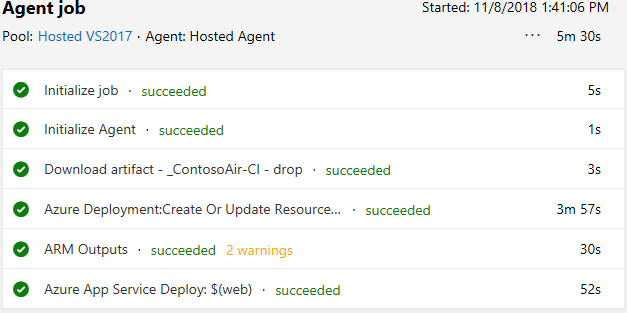
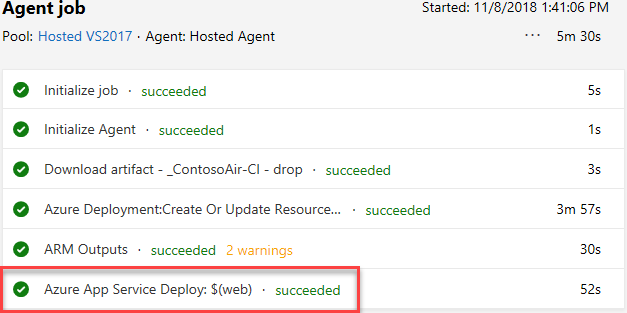
Completing release steps

Changed region(s): [[0.0, 0.8339, 0.5758, 1.0]]

diff --git a/readme.md b/readme.md
@@ -604,12 +604,21 @@ Now that we have our CI successfully built, it's time to deploy but how do we kn
 1. Select **Create** to start a new release. 
 
 1. Click **In progress** to follow the release process.
+
     ![](./images/image51.png)
 
 1. Note that it will take a few minutes (around 5 at the time of  drafting) for the app to finish deploying due to heavy first-time operations. Move ahead to the next step while it works in the backgroud.
 
     ![](./images/image52.png)
 
+1. Select the **App Service Deploy** task to view the detailed log. You should find the URL to the published website here. Ctrl+Click the link to open it in a separate tab.
+
+    ![](./images/image-release2.png)
+
+1. This should open the web page of the Conotoso Air:
+
+    ![](./images/image-contoso.png)
+    
 =============
 
 # Exercise 2 -- Managing GitHub Projects with Azure DevOps
